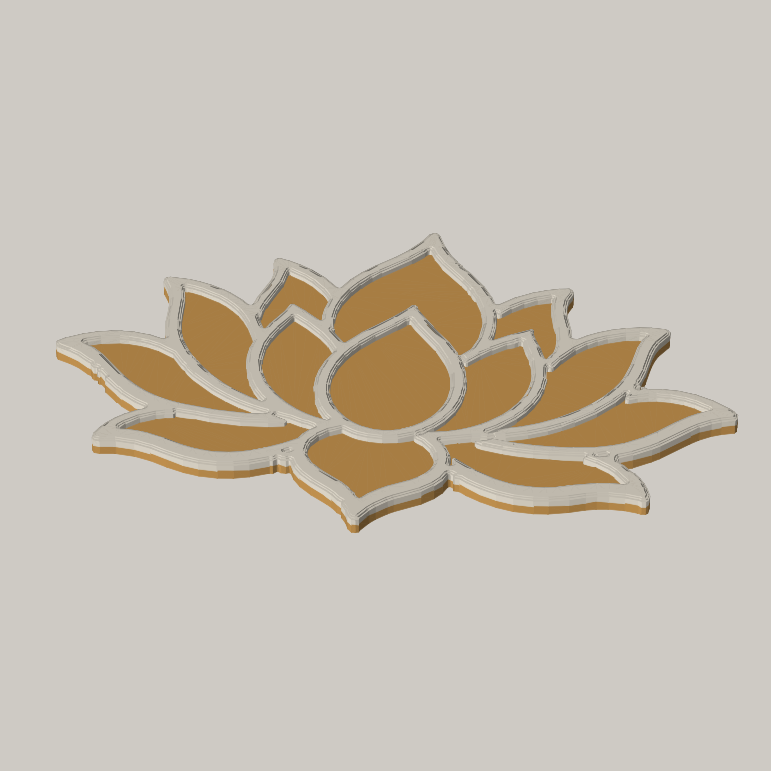
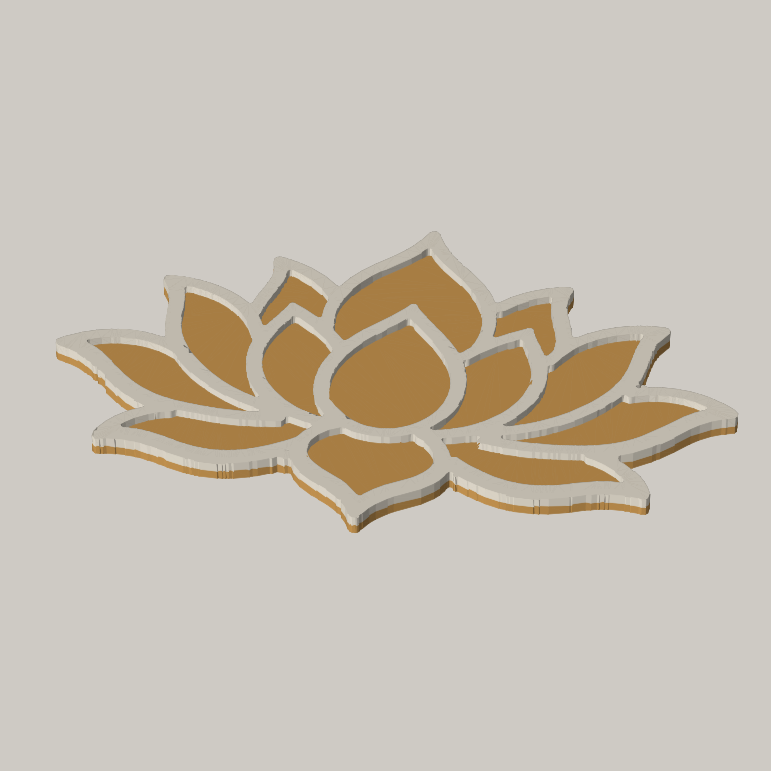
Lotus rangoli board: single straight border, smoother outlines (preview only)
Replace the stepped ridge top with one straight wall, fill tiny tracing
gaps, smooth the traced edges and add a close-up preview. STL not yet
regenerated, pending approval of the previews.

Claude-Session: https://claude.ai/code/session_01HQyouszACcJfNx7ugTWrWT

diff --git a/tools/lotus_rangoli_board.py b/tools/lotus_rangoli_board.py
@@ -24,7 +24,8 @@ BASE_T = 2.2           # solid floor thickness
 RIDGE_H = 1.8          # ridge height above the floor
 RIDGE_GROW = 0.2       # mm added on each side of the traced outlines
 OUTER_RIM = 2.6        # width of the outer wall
-ROUND = 0.5            # top-edge rounding (stepped inset)
+SMOOTH = 0.6           # closes tiny notches in the traced outlines
+MIN_GAP_PX = 1500      # gold gaps in the outlines smaller than this get filled
 
 
 def masks(ref_path):
@@ -52,6 +53,14 @@ def masks(ref_path):
     keep = np.zeros(n, bool)
     keep[1:] = stats[1:, cv2.CC_STAT_AREA] > 2000
     cream = keep[lab].astype(np.uint8)
+    # Fill tiny gaps inside the outlines (tracing artefacts, not petals).
+    n, lab, stats, _ = cv2.connectedComponentsWithStats(((cream == 0) & (sil == 1)).astype(np.uint8))
+    small = np.zeros(n, bool)
+    small[1:] = stats[1:, cv2.CC_STAT_AREA] < MIN_GAP_PX
+    cream[small[lab] & (lab > 0)] = 1
+    # Smooth the traced edges so walls are clean curves, not pixel wobble.
+    cream = (cv2.GaussianBlur(cream.astype(np.float32), (0, 0), 3) > 0.5).astype(np.uint8)
+    sil = (cv2.GaussianBlur(sil.astype(np.float32), (0, 0), 2) > 0.5).astype(np.uint8)
     return sil, cream
 
 
@@ -62,7 +71,7 @@ def to_section(mask, mm_per_px, h):
     for c in cnts:
         if len(c) < 3:
             continue
-        c = cv2.approxPolyDP(c, 1.0, True)[:, 0, :].astype(float)
+        c = cv2.approxPolyDP(c, 0.7, True)[:, 0, :].astype(float)
         if len(c) < 3:
             continue
         polys.append([(x * mm_per_px, (h - y) * mm_per_px) for x, y in c])
@@ -78,19 +87,15 @@ def build(ref_path):
     base_cs = to_section(sil, mm_per_px, h)
     ridge_cs = to_section(ridge, mm_per_px, h)
     # Widen ridges slightly (traced lines are ~2.5 mm) and keep them inside the floor.
-    ridge_cs = ridge_cs.offset(RIDGE_GROW, join_type=1) ^ base_cs
+    ridge_cs = (ridge_cs.offset(RIDGE_GROW + SMOOTH, join_type=1)
+                        .offset(-2 * SMOOTH, join_type=1)
+                        .offset(SMOOTH, join_type=1)) ^ base_cs
     # Outer wall: a ridge band right to the edge, so powder can't spill off.
     ridge_cs += base_cs - base_cs.offset(-OUTER_RIM, join_type=1)
 
     model = Manifold.extrude(base_cs, BASE_T)
-    # Ridge: full-width body, then two inset steps for a softly rounded top.
-    body_h = RIDGE_H - ROUND
-    model += Manifold.extrude(ridge_cs, body_h + 0.3).translate((0, 0, BASE_T - 0.3))
-    step = ROUND / 2
-    for i, inset in enumerate((0.3, 0.7)):
-        cs = ridge_cs.offset(-inset, join_type=1)
-        z = BASE_T + body_h + i * step
-        model += Manifold.extrude(cs, step + 0.1).translate((0, 0, z - 0.1))
+    # Ridge: one straight wall with a flat top (no stepped edges).
+    model += Manifold.extrude(ridge_cs, RIDGE_H + 0.3).translate((0, 0, BASE_T - 0.3))
 
     # Remove slivers so the float32 STL stays manifold.
     model = model.simplify(0.02)
@@ -138,12 +143,16 @@ def heightmap_preview(model, path, px=0.12):
     Image.fromarray((np.clip(out, 0, 1) * 255).astype(np.uint8)).save(path)
 
 
-def angled_preview(model, path):
+def angled_preview(model, path, crop=None, elev=38, azim=-80):
     import matplotlib
     matplotlib.use("Agg")
     import matplotlib.pyplot as plt
     from mpl_toolkits.mplot3d.art3d import Poly3DCollection
 
+    if crop:
+        x0, x1, y0, y1 = crop
+        box = Manifold.cube((x1 - x0, y1 - y0, 20)).translate((x0, y0, -5))
+        model = model ^ box
     mesh = model.to_mesh()
     v = np.asarray(mesh.vert_properties)[:, :3]
     tri = v[np.asarray(mesh.tri_verts)]
@@ -161,9 +170,11 @@ def angled_preview(model, path):
     fc = base_col * shade[:, None]
     ax.add_collection3d(Poly3DCollection(tri, facecolors=fc, edgecolors=fc, linewidths=0.3))
     bb = model.bounding_box()
-    ax.set(xlim=(bb[0], bb[3]), ylim=(bb[1], bb[4]), zlim=(-6, 10))
-    ax.set_box_aspect((bb[3] - bb[0], bb[4] - bb[1], 16), zoom=1.1)
-    ax.view_init(elev=38, azim=-80)
+    x0, x1, y0, y1 = crop or (bb[0], bb[3], bb[1], bb[4])
+    zr = 16 if not crop else (x1 - x0) / 3
+    ax.set(xlim=(x0, x1), ylim=(y0, y1), zlim=(-zr / 2 + 2, zr / 2 + 2))
+    ax.set_box_aspect((x1 - x0, y1 - y0, zr), zoom=1.1)
+    ax.view_init(elev=elev, azim=azim)
     ax.set_axis_off()
     fig.savefig(path, bbox_inches="tight", facecolor=fig.get_facecolor())
 
@@ -192,6 +203,8 @@ if __name__ == "__main__":
           f"genus {model.genus()}, parts {len(model.decompose())}")
     heightmap_preview(model, out / "lotus_rangoli_preview_top.png")
     angled_preview(model, out / "lotus_rangoli_preview_angle.png")
+    angled_preview(model, out / "lotus_rangoli_preview_closeup.png",
+                   crop=(-45, 10, -52, -5), elev=30, azim=-60)
     if "--stl" in sys.argv:
         write_stl(model, out / "lotus_rangoli_board.stl")
         print("wrote", out / "lotus_rangoli_board.stl")
